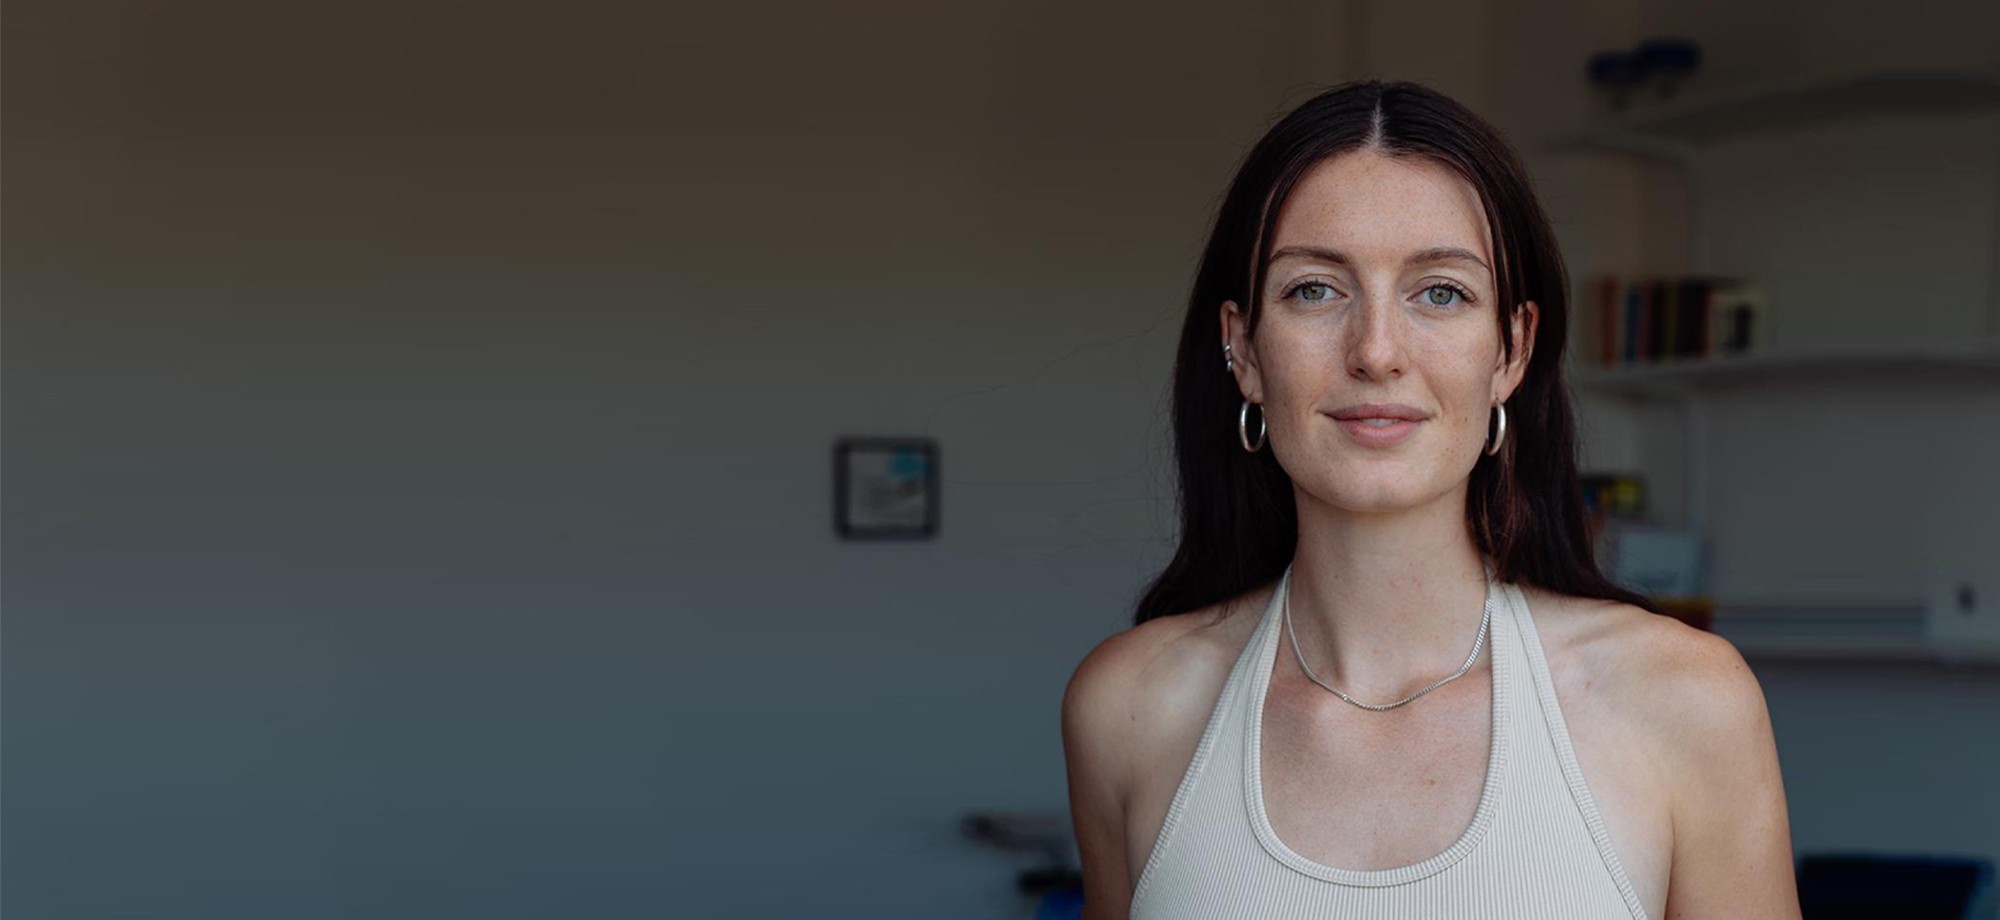
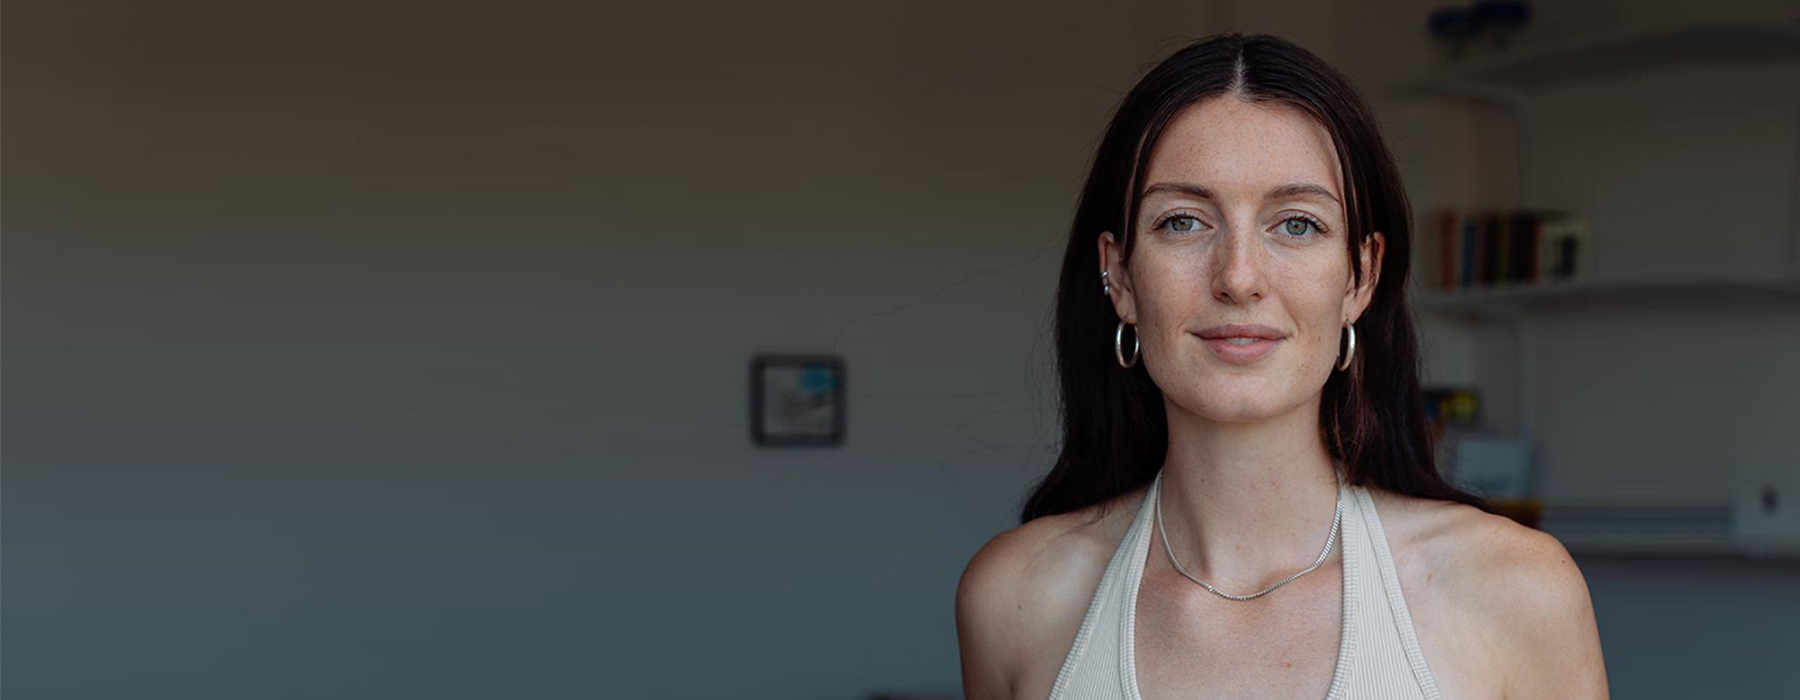
update

diff --git a/graphic-design.html b/graphic-design.html
@@ -47,7 +47,7 @@
             <a class="pic" href="cuccuma.html" data-type="page" data-title="Cuccuma">
               <img class="img-fluid w-100 h-auto" alt="Cuccuma Coffee House Rebrand" src="images/cuccuma/cuccuma-page/Cuccuma_Menus.jpg">
               <div class="d-flex justify-content-between mt-3">
-                <div><h2>Cuccuma</h2></div>
+                <div class="desktop tablet"><h2>Cuccuma</h2></div>
                 <div class="desktop tablet"><h2>Branding & Environmental & Packaging</h2></div>
               </div>
             </a>
@@ -56,7 +56,7 @@
             <a class="pic" href="limitless.html" data-type="page" data-title="Limitless">
               <img class="img-fluid w-100 h-auto" alt="Limitless: Extreme Sports Zine" src="images/limitless/project-page/limitless-cover-in-sky.jpg">
               <div class="d-flex justify-content-between mt-3">
-                <div><h2>Limitless</h2></div>
+                <div class="desktop tablet"><h2>Limitless</h2></div>
                 <div class="desktop tablet"><h2>Branding & Print & Motion</h2></div>
               </div>
             </a>
@@ -65,7 +65,7 @@
             <a class="pic" href="ordinary-wednesday.html" data-type="page" data-title="Ordinary Wednesday">
               <img class="img-fluid w-100 h-auto" alt="Ordinary Wednesday" src="images/ordinary_wednesday/project-page/ordinary-wednesday-poster.jpg">
               <div class="d-flex justify-content-between mt-3">
-                <div><h2>Ordinary Wednesday</h2></div>
+                <div class="desktop tablet"><h2>Ordinary Wednesday</h2></div>
                 <div class="desktop tablet"><h2>Branding</h2></div>
               </div>
             </a>
@@ -74,7 +74,7 @@
             <a class="pic" href="clapton-welcomes.html" data-type="page" data-title="Clapton Welcomes">
               <img class="img-fluid w-100 h-auto " alt="Clapton Welcomes Refugees Fundraiser Poster" src="images/clapton-welcomes/project-page/clapton-welcomes.jpg">
               <div class="d-flex justify-content-between mt-3">
-                <div><h2>Clapton Welcomes</h2></div>
+                <div class="desktop tablet"><h2>Clapton Welcomes</h2></div>
                 <div class="desktop tablet"><h2>Print</h2></div>
               </div>
             </a>
@@ -83,7 +83,7 @@
             <a class="pic" href="thecureofmodernlife.html" data-type="page" data-title="The Cure of Modern Life">
               <img class="img-fluid w-100 h-auto" alt="The Cure of Modern Life: Brochure" src="images/cure_of_modern_life/Penelope-Atkinson_The-Cure-of-Modern-Life_Brochure.jpg">
               <div class="d-flex justify-content-between mt-3">
-                <div><h2>The Cure of Modern Life</h2></div>
+                <div class="desktop tablet"><h2>The Cure of Modern Life</h2></div>
                 <div class="desktop tablet"><h2>Branding & Print & Digital</h2></div>
               </div>
             </a>
@@ -92,7 +92,7 @@
             <a class="pic" href="sable.html" data-type="page" data-title="Sable">
               <img class="img-fluid w-100 h-auto " alt="Sable: English Literature" src="images/sable/project-page/sable-album-in-shop.jpg">
               <div class="d-flex justify-content-between mt-3">
-                <div><h2>Sable</h2></div>
+                <div class="desktop tablet"><h2>Sable</h2></div>
                 <div class="desktop tablet"><h2>Album Artwork</h2></div>
               </div>
             </a>

diff --git a/uxui-design.html b/uxui-design.html
@@ -44,37 +44,37 @@
       <div class="homescreen-gallery mt-8">
         <div class="row no-gutter g-0">
           <div class="col-12 col-sm-12 col-md-12 gx-5 gy-5">
-            <a class="pic" href="betterplace.html" data-type="page" data-title="betterplace.org">
-                <img class="img-fluid w-100 h-auto" alt="betterplace.org UX/UI Design" src="images/betterplace/project-page/betterplace-banner.jpg">
-                <div class="d-flex justify-content-between mt-3">
-                  <div><h2>betterplace.org</h2></div>
-                  <div class="desktop tablet"><h2>UX/UI Design & Branding</h2></div>
-                </div>
-              </a>
-          </div>
-          <div class="col-12 col-sm-12 col-md-12 gx-5 gy-5">
             <a class="pic" href="komoot.html" data-type="page" data-title="Komoot">
                 <img class="img-fluid w-100 h-auto" alt="Komoot UI Design" src="images/komoot/komoot-page/komoot-iphone-mockup.jpg">
                 <div class="d-flex justify-content-between mt-3">
-                  <div><h2>Komoot</h2></div>
+                  <div class="desktop tablet"><h2>Komoot</h2></div>
                   <div class="desktop tablet"><h2>UI Design & Branding</h2></div>
                 </div>
               </a>
           </div>
           <div class="col-12 col-sm-12 col-md-12 gx-5 gy-5">
             <a class="pic" href="moodler.html" data-type="page" data-title="Moodler">
-                <img class="img-fluid w-100 h-auto" alt="Moodler" src="images/moodler/moodler-page/moodler-banner.jpg">
+                <img class="img-fluid w-100 h-auto" alt="Moodler" src="images/moodler/moodler-page/moodler-intro.jpg">
                 <div class="d-flex justify-content-between mt-3">
-                  <div><h2>Moodler</h2></div>
+                  <div class="desktop tablet"><h2>Moodler</h2></div>
                   <div class="desktop tablet"><h2>UX/UI Design & Branding</h2></div>
                 </div>
             </a>
           </div>
           <div class="col-12 col-sm-12 col-md-12 gx-5 gy-5">
+            <a class="pic" href="betterplace.html" data-type="page" data-title="betterplace.org">
+                <img class="img-fluid w-100 h-auto" alt="betterplace.org UX/UI Design" src="images/betterplace/project-page/betterplace-banner.jpg">
+                <div class="d-flex justify-content-between mt-3">
+                  <div class="desktop tablet"><h2>betterplace.org</h2></div>
+                  <div class="desktop tablet"><h2>UX/UI Design & Branding</h2></div>
+                </div>
+              </a>
+          </div>
+          <div class="col-12 col-sm-12 col-md-12 gx-5 gy-5">
             <a class="pic" href="kraeuterhaus-kreuzberg.html" data-type="page" data-title="Kräuterhaus Kreuzberg">
               <img class="img-fluid w-100 h-auto " alt="Kraeuterhaus Kreuzberg" src="images/kraeuterhaus-kreuzberg/project-page/kraeuterhaus-kreuzberg.jpg">
               <div class="d-flex justify-content-between mt-3">
-                <div><h2>Kräuterhaus Kreuzberg</h2></div>
+                <div class="desktop tablet"><h2>Kräuterhaus Kreuzberg</h2></div>
                 <div class="desktop tablet"><h2>UX/UI Design & Branding</h2></div>
               </div>
             </a>

diff --git a/about.html b/about.html
@@ -42,11 +42,12 @@
 
       <div class="row no-gutter g-0 mt-8">
         <div class="col-12 mx-auto gx-5 gy-5">
-          <img class="img-fluid w-100 h-auto" src="images/headshot/headshot-desktop.jpg">
+          <img class="img-fluid w-100 h-auto desktop tablet" src="images/headshot/headshot-desktop.jpg">
+          <img class="img-fluid w-100 h-auto mobile" src="images/headshot/headshot-mobile.jpg">
         </div>
       </div>
 
-      <div class="row no-gutter g-0 about-intro">
+      <div class="row no-gutter g-0 mt-6 about-intro">
         <div class="col-md-12 gx-5">
           I enjoy creating designs that find a sweet balance between playfulness & functionality. 
           I'm especially interested to work with brands that have a positive social & environment impact.
@@ -56,7 +57,7 @@
 
       <div class="about-text">
 
-        <div class="row no-gutter g-0">
+        <div class="row no-gutter g-0 mt-8">
           <div class="col-xs-12 col-sm-12 col-md-3 gx-5">
             ABOUT ME
           </div>

diff --git a/css/main.css b/css/main.css
@@ -133,7 +133,6 @@ p {
     font-family: 'Baptiste-Regular', serif;
     font-size: 7rem;
     text-align: left;
-    margin: 10vh 0 10vh 0;
     line-height: 1.2;
 }
 
@@ -564,6 +563,10 @@ h5 {
         line-height: 1.2;
     }
 
+    .about-intro {
+        font-size: 5.2vw;
+    }
+
     body {
         font-size: 2vw;
         font-weight: 450;
@@ -670,12 +673,12 @@ h5 {
     }
 
     .homescreen-intro {
-        font-size: 4rem;
+        font-size: 3.8rem;
         padding: 0 0;
         line-height: 1.2;
         text-align: center;
-        margin-top: auto;
-        margin-bottom: auto;
+        margin-top: 17vh;
+        margin-bottom: 8vh;
         overflow: hidden !important;
     }
 
@@ -684,6 +687,15 @@ h5 {
         margin: 5vw 0;
         text-align: left;
         line-height: 1.3;
+    }
+
+    .about-intro {
+        font-size: 3.4rem;
+        line-height: 1.3;
+    }
+
+    .screen-height {
+        height: auto;
     }
 
     .asterisk {

diff --git a/index.html b/index.html
@@ -98,7 +98,7 @@
       </div>
       <div class="col-12 col-sm-12 col-md-12 gx-5 gy-5">
         <a class="pic" href="moodler.html" data-type="page" data-title="Moodler">
-            <img class="img-fluid w-100 h-auto" alt="Moodler" src="images/moodler/moodler-page/moodler-banner.jpg">
+            <img class="img-fluid w-100 h-auto" alt="Moodler" src="images/moodler/moodler-page/moodler-intro.jpg">
             <div class="d-flex justify-content-between mt-3">
               <div class="desktop tablet"><h2>Moodler</h2></div>
               <div class="desktop tablet"><h2>UX/UI Design</h2></div>

diff --git a/betterplace.html b/betterplace.html
@@ -44,7 +44,7 @@
 
       <div class="row nopadding g-0">
         <div class="col-12 mx-auto gx-5 gy-5">
-          <img class="img-fluid w-100 h-auto" src="images/betterplace/betterplace-page/betterplace-page-banner.jpg">
+          <img class="img-fluid w-100 h-auto" src="images/betterplace/betterplace-page/betterplace-banner.jpg">
         </div>
       </div>
 

diff --git a/moodler.html b/moodler.html
@@ -45,7 +45,7 @@
 
       <div class="row nopadding g-0">
         <div class="col-12 mx-auto  gx-5 gy-5">
-          <img class="img-fluid w-100 h-auto" src="images/moodler/project-page/moodler.jpg">
+          <img class="img-fluid w-100 h-auto" src="images/moodler/moodler-page/moodler-banner.jpg">
         </div>
       </div>
 
